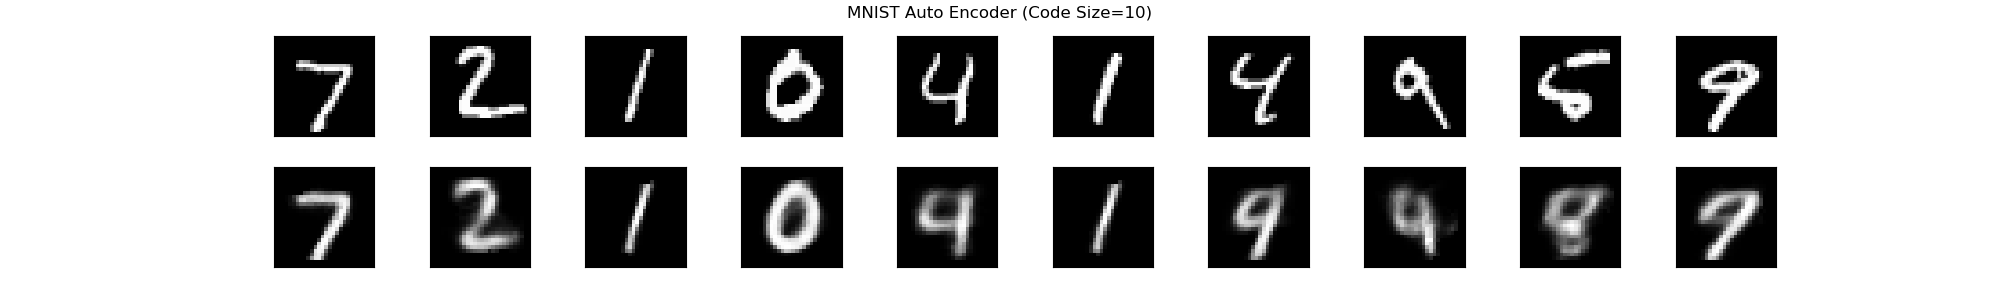
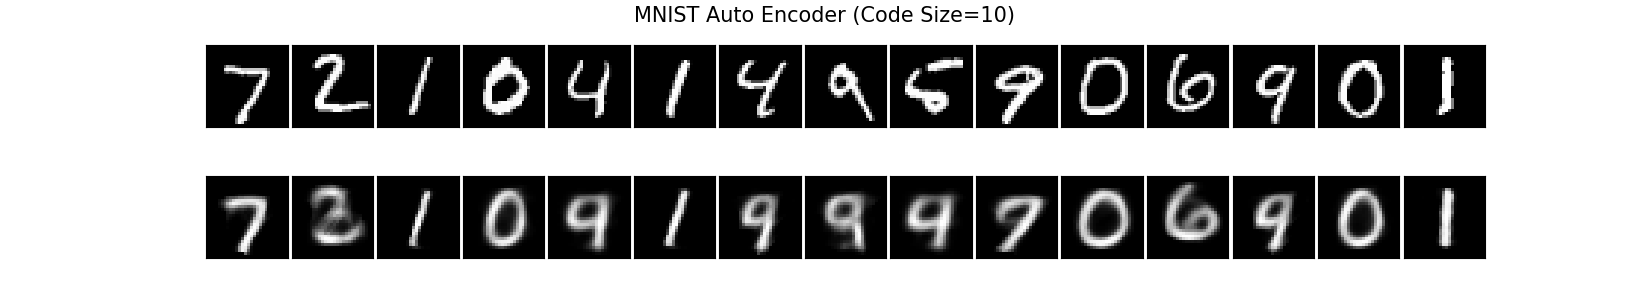
add l2 regularization and tensorboard

diff --git a/AutoEncoder/mnist.py b/AutoEncoder/mnist.py
@@ -23,8 +23,10 @@ def load_mnist():
     return train_data, valid_data, test_data, input_shape, label_shape
 
 class AutoEncoder(object):
-    def __init__(self, n_features, layers=[], code_nodes=2, learning_rate= 0.013):
+    def __init__(self, n_features, layers=[], code_nodes=2, learning_rate= 0.013, alpha=0.1):
         self.code_nodes = code_nodes
+
+        self.regularizer = tf.contrib.layers.l2_regularizer(scale=alpha)
 
         self.graph = tf.Graph() # initialize new graph
         self.model(n_features, learning_rate, layers)
@@ -35,6 +37,7 @@ class AutoEncoder(object):
         Build model with tensorflow
         :return: Nothing
         """
+
         with self.graph.as_default():
             self.X = tf.placeholder(tf.float32, shape=(None, n_features), name="X_Input")
 
@@ -46,6 +49,7 @@ class AutoEncoder(object):
                                              nodes,
                                              activation=tf.nn.relu,
                                              kernel_initializer=tf.truncated_normal_initializer(stddev=0.01),
+                                             kernel_regularizer= self.regularizer,
                                              name="FC_Encode_Layer_" + str(nodes))
 
             # encode layer
@@ -53,6 +57,7 @@ class AutoEncoder(object):
                                   encode_nodes,
                                   activation=tf.nn.relu,
                                   kernel_initializer=tf.truncated_normal_initializer(stddev=0.01),
+                                  kernel_regularizer= self.regularizer,
                                   name="Code")
 
             layer_input = self.code
@@ -63,20 +68,33 @@ class AutoEncoder(object):
                                              nodes,
                                              activation=tf.nn.relu,
                                              kernel_initializer=tf.truncated_normal_initializer(stddev=0.01),
+                                             kernel_regularizer= self.regularizer,
                                              name="FC_Decode_Layer_" + str(nodes))
 
             self.y_ = tf.layers.dense(layer_input,
                                   784,
                                   activation=tf.nn.sigmoid,
                                   kernel_initializer=tf.truncated_normal_initializer(stddev=0.01),
+                                  kernel_regularizer=self.regularizer,
                                   name="y_pred")
 
-            self.loss = tf.reduce_mean(tf.pow(self.y_ - self.X, 2))  # mean square error
+            self.mse_loss = tf.reduce_mean(tf.pow(self.y_ - self.X, 2)) # mean square error
+            self.l2_loss = tf.losses.get_regularization_loss() # l2 loss
+
+            self.loss = self.mse_loss + self.l2_loss/(1+self.l2_loss) # final loss
+
+            tf.summary.scalar('mse_loss', self.mse_loss)
+            tf.summary.scalar('l2_loss', self.l2_loss)
+            tf.summary.scalar('total_loss', self.loss)
+
             self.optimizer = tf.train.AdamOptimizer(learning_rate)
 
-            self.train_op = self.optimizer.minimize(self.loss) # learning goal
+            self.train_op = self.optimizer.minimize(self.mse_loss) # learning goal
 
             self.init_op = tf.global_variables_initializer() # initialization
+
+            self.merged = tf.summary.merge_all()
+
 
     def fit(self, X, X_valid, X_test=None, epochs = 10, batch_size=32, total_sample=1000):
         """
@@ -90,6 +108,8 @@ class AutoEncoder(object):
         :param total_sample: numbers of sample for training samples
         :return: nothing
         """
+        self.writer = tf.summary.FileWriter("TensorBoard/", graph=self.graph)
+
         self.sess.run(self.init_op) # initializing
 
         for epoch in range(epochs):
@@ -102,6 +122,9 @@ class AutoEncoder(object):
                 if i % 250 == 0:
                     print("Train [%d/%d] loss = %9.4f" % (i+1, rounds, loss))
 
+                    summary = self.sess.run(self.merged, feed_dict={self.X: X_batch[0]})
+                    self.writer.add_summary(summary=summary, global_step=(epoch+1)*rounds+i+1)
+
             # validation
             [loss] = self.sess.run([self.loss], feed_dict={self.X: X_valid.images})
             print("Valid loss = %9.4f" % loss)
@@ -110,6 +133,8 @@ class AutoEncoder(object):
             if X_test:
                 [loss] = self.sess.run([self.loss], feed_dict={self.X: X_test.images})
                 print("Test loss = %9.4f" % loss)
+
+
 
 
     def predict(self, X):
@@ -128,18 +153,18 @@ if __name__ == '__main__':
     layer_nodes = [512, 256, 128, 64]
     encode_nodes = 10
 
-    auto_encoder = AutoEncoder(input_shape, layer_nodes, encode_nodes, learning_rate=0.00017)
+    auto_encoder = AutoEncoder(input_shape, layer_nodes, encode_nodes, learning_rate=0.00017, alpha=0.01)
 
-    auto_encoder.fit(train_data, valid_data, test_data, total_sample=train_data.images.shape[0], epochs= 15)
+    auto_encoder.fit(train_data, valid_data, test_data, total_sample=train_data.images.shape[0], epochs= 15, batch_size=8)
 
-    figures = 10
+    figures = 15
 
     # set figures
-    fig, axes = plt.subplots(2, figures, figsize=(figures*2, 3), # set size and nums of figures
+    fig, axes = plt.subplots(2, figures, figsize=(figures*1.1, 3), # set size and nums of figures
                              subplot_kw={'xticks': [], 'yticks': []}) # remove the ticks
     fig.subplots_adjust(hspace=0.3, wspace=0.05)
 
-    fig.suptitle("MNIST Auto Encoder (Code Size="+str(encode_nodes)+")") # title for whole figure
+    fig.suptitle("MNIST Auto Encoder (Code Size="+str(encode_nodes)+")", size=15) # title for whole figure
 
     for i in range(figures):
         img = np.reshape(test_data.images[i, :], (28, 28)) # re-shape to image like
